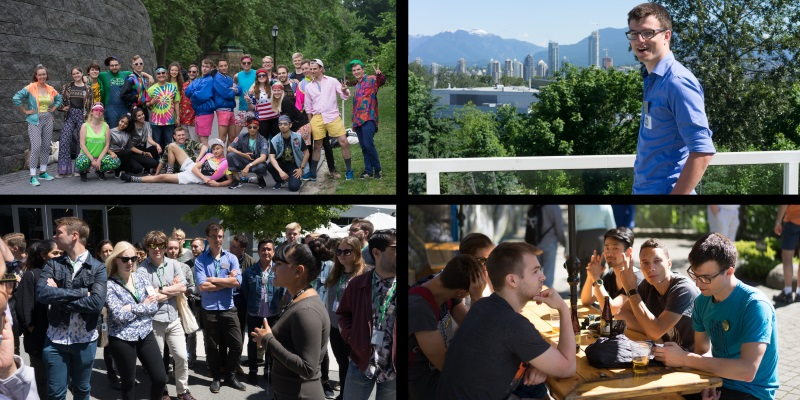
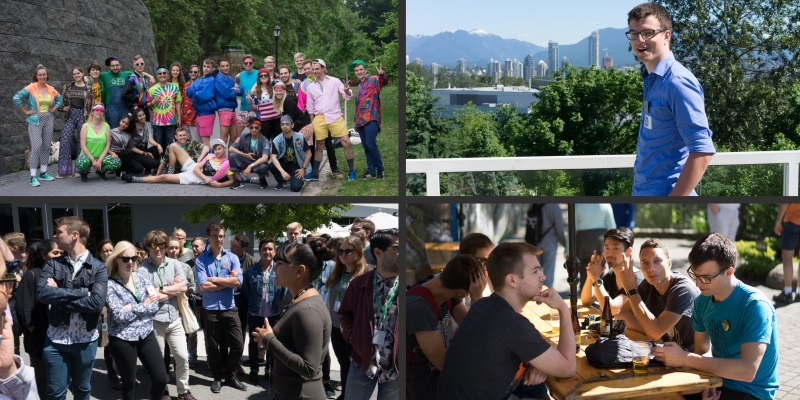
Better image border and placement for STUDS preview

Changed region(s): [[0.0, 0.0, 1.0, 1.0], [0.2188, 0.09, 0.25, 0.12], [0.2188, 0.03, 0.25, 0.06]]

diff --git a/css/css.css b/css/css.css
@@ -253,11 +253,15 @@ a:hover {color:#3366BB;}
 	background-color: rgba(255,255,255,0.6);
 }
 
+#studs-image {
+	cursor: pointer;
+}
+
 #studs-image-div {
 	position: absolute;
 	margin-left: auto;
 	margin-right: auto;
-	margin-top: 10%;
+	margin-top: 2%;
 	left: 0;
 	right: 0;
 	display: none;
@@ -277,8 +281,9 @@ a:hover {color:#3366BB;}
 	position: relative;
 	vertical-align: top;
 	left: 10px;
-	width: 50px;
-	height: 50px;
+	width: 35px;
+	height: 35px;
+	cursor: pointer;
 }
 
 #studs-text a:link {color:#0030CC;}

diff --git a/index.html b/index.html
@@ -177,7 +177,7 @@
 			</div>
 
 			<div id="studs-image-div">
-				<img id="studs-large-image" src="images/studs-large.png"></a>
+				<img id="studs-large-image" src="images/studs-large.jpg"></a>
 				<img id="studs-close-button" src="images/icons/icon-close.png">
 			</div>
 
